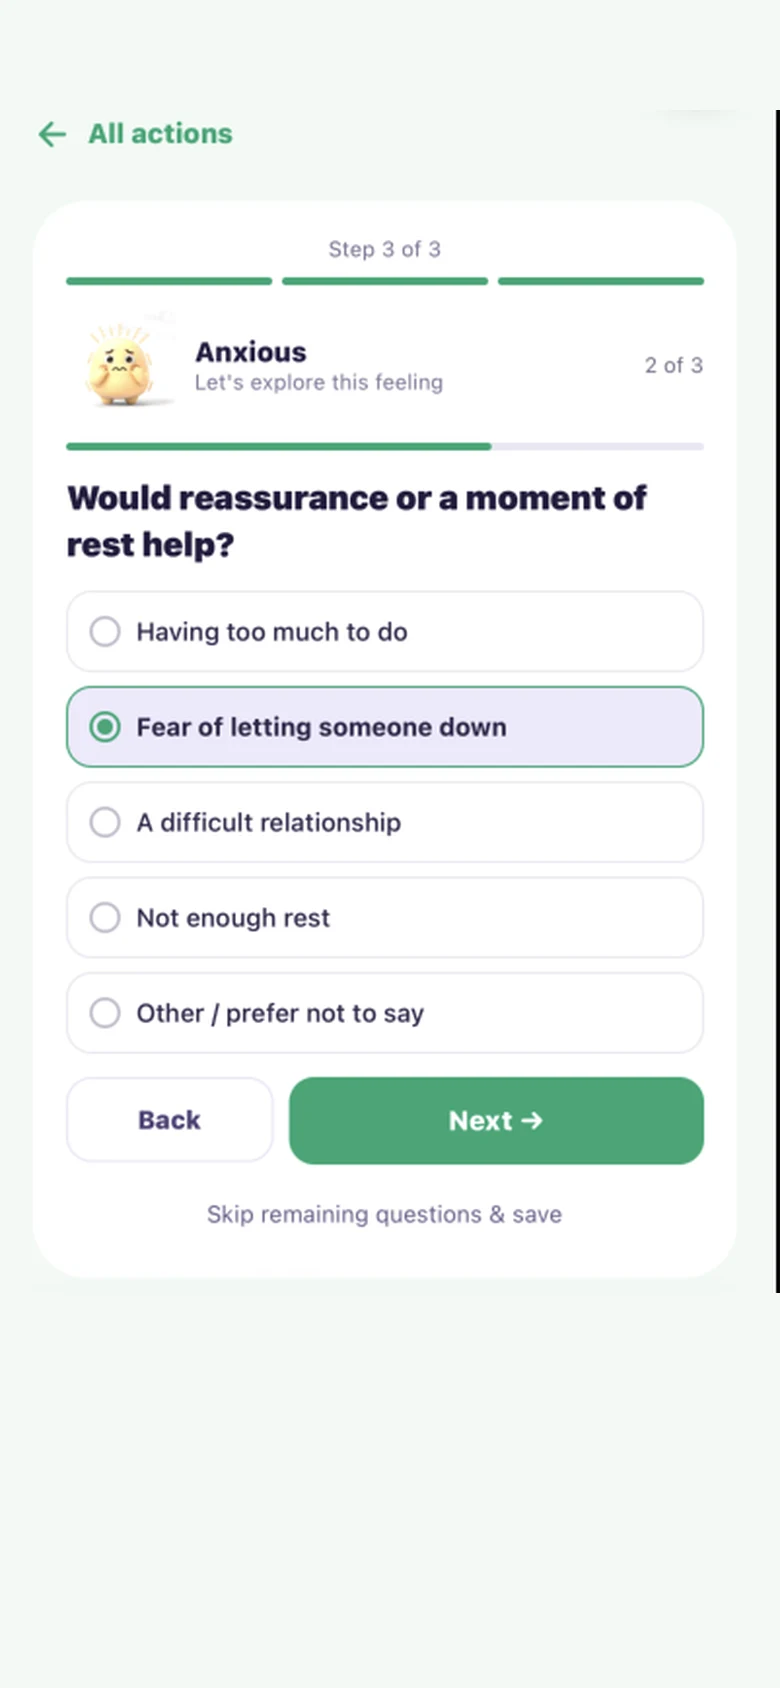
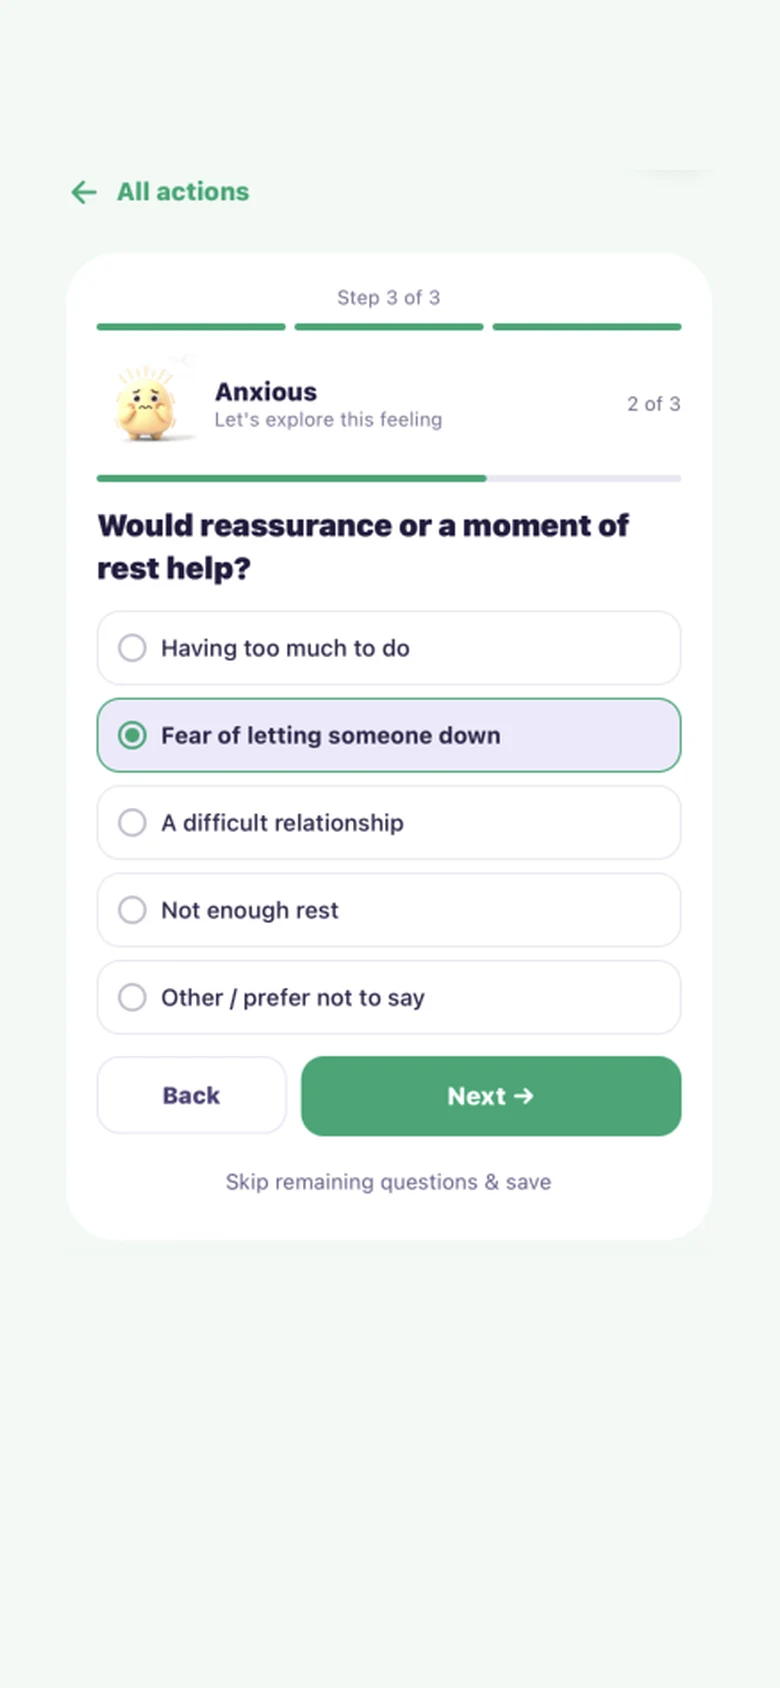
Website: pad screenshots so the back button clears the camera cutout

diff --git a/website/public/index.html b/website/public/index.html
@@ -11,7 +11,7 @@
 <link rel="icon" href="/img/mascots/disgust.png">
 <link rel="preconnect" href="https://fonts.googleapis.com"><link rel="preconnect" href="https://fonts.gstatic.com" crossorigin>
 <link href="https://fonts.googleapis.com/css2?family=Fredoka:wght@500;600;700&family=Nunito:wght@500;700;800&display=swap" rel="stylesheet">
-<link rel="stylesheet" href="/styles.css?v=4">
+<link rel="stylesheet" href="/styles.css?v=6">
 </head>
 <body>
 <header class="nav">
@@ -144,6 +144,6 @@
   </section>
 </main>
 <footer><span>© <span id="yr"></span> MoodPals</span><span>Made with <span class="heart">♥</span> for calmer days</span></footer>
-<script src="/app.js?v=4" defer></script>
+<script src="/app.js?v=6" defer></script>
 </body>
 </html>

diff --git a/website/public/app.js b/website/public/app.js
@@ -44,7 +44,7 @@ document.querySelectorAll('.phone').forEach(phone => {
   phone.appendChild(screen);
   const slides = (phone.dataset.slides || '').split(',').filter(Boolean);
   if (slides.length) {
-    screen.innerHTML = slides.map((s, i) => `<img class="slide${i ? '' : ' on'}" src="/img/screens/${s}.webp" alt="MoodPals ${s.replace('-', ' ')} screen">`).join('');
+    screen.innerHTML = slides.map((s, i) => `<img class="slide${i ? '' : ' on'}" src="/img/screens/${s}.webp?v=6" alt="MoodPals ${s.replace('-', ' ')} screen">`).join('');
     let i = 0;
     const imgs = screen.querySelectorAll('.slide');
     setInterval(() => { imgs[i].classList.remove('on'); i = (i + 1) % imgs.length; imgs[i].classList.add('on'); }, 2800);
